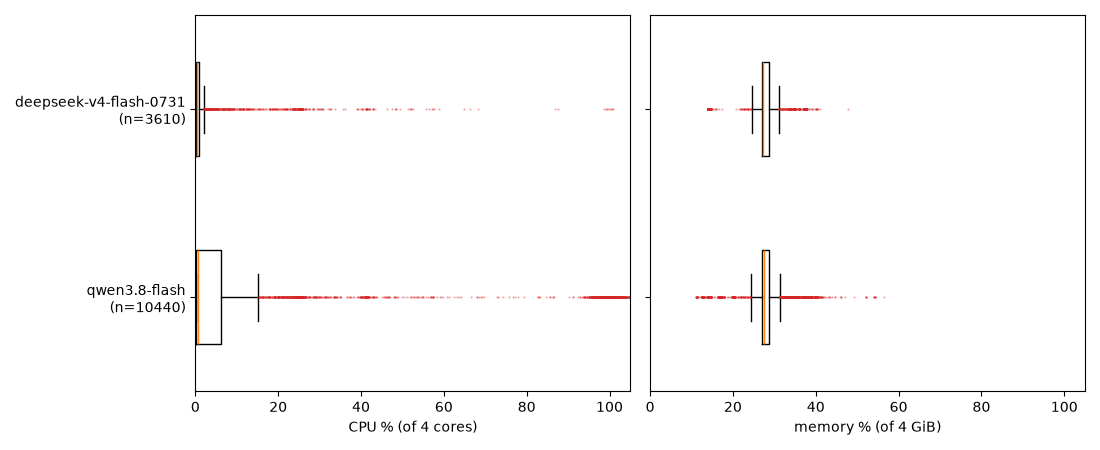
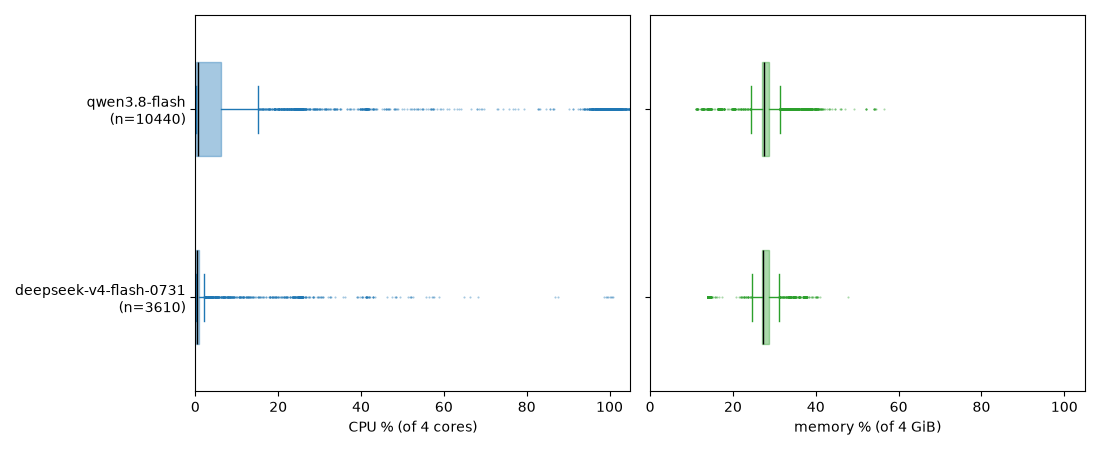
more charts

diff --git a/charts/tool_binding.py b/charts/tool_binding.py
@@ -1,0 +1,110 @@
+"""How much resource usage is bound to tool calls.
+
+Every 1 s sample of every task is classified inside vs outside a tool-call window
+(from trajectory.traj.json). Panels: violins of CPU % / memory % per model.
+
+Usage: uv run python charts/tool_binding.py
+"""
+from __future__ import annotations
+
+import argparse
+import json
+from pathlib import Path
+
+import matplotlib.pyplot as plt
+
+from taskplot import _epoch, load_samples, load_tool_windows
+
+DEFAULT_MODELS = ["qwen3.8-flash", "deepseek-v4-flash-0731"]
+
+
+def run_points(run_dir: Path):
+    """(cpu %, mem %, in_tool, interval_s, cpu_core_s) per 1 s sample of the agent phase."""
+    status = json.loads((run_dir / "status.json").read_text(encoding="utf-8"))
+    phase = status["phases"]["agent"]
+    t0, t1 = _epoch(phase["start"]), _epoch(phase["end"])
+    epochs, usage, mem, alloc_cpu, alloc_mem = load_samples(run_dir)
+    windows = load_tool_windows(run_dir)
+    pts = [(e, u, m) for e, u, m in zip(epochs, usage, mem) if t0 <= e <= t1]
+    out = []
+    for a, b in zip(pts, pts[1:]):
+        dt = b[0] - a[0]
+        if dt <= 0:
+            continue
+        mid = (a[0] + b[0]) / 2
+        inside = any(s <= mid <= e for s, e in windows)
+        cpu = 100.0 * (b[1] - a[1]) / 1e6 / dt / alloc_cpu
+        mem_pct = 100.0 * b[2] / (alloc_mem * 2**30)
+        out.append((cpu, mem_pct, inside, dt, (b[1] - a[1]) / 1e6))
+    return out
+
+
+def collect(model_dir: Path):
+    cpu_in, cpu_out, mem_in, mem_out = [], [], [], []
+    wall_total = wall_tool = cpu_s_total = cpu_s_tool = 0.0
+    for run_dir in sorted(p for p in model_dir.iterdir() if p.is_dir()):
+        if not (run_dir / "metrics.jsonl").exists():
+            continue
+        for cpu, mem_pct, inside, dt, cpu_s in run_points(run_dir):
+            (cpu_in if inside else cpu_out).append(cpu)
+            (mem_in if inside else mem_out).append(mem_pct)
+            wall_total += dt
+            cpu_s_total += cpu_s
+            if inside:
+                wall_tool += dt
+                cpu_s_tool += cpu_s
+    shares = (100 * wall_tool / wall_total, 100 * cpu_s_tool / cpu_s_total)
+    return (cpu_in, cpu_out, mem_in, mem_out), shares
+
+
+def main() -> int:
+    ap = argparse.ArgumentParser()
+    ap.add_argument("--models", nargs="+", default=DEFAULT_MODELS)
+    ap.add_argument("--runs", type=Path, default=Path("runs"))
+    ap.add_argument("-o", "--out", type=Path, default=Path("charts/tool-binding.png"))
+    ap.add_argument("--dpi", type=int, default=100)
+    args = ap.parse_args()
+
+    per_model = [collect(args.runs / m) for m in args.models]
+
+    fig, axes = plt.subplots(1, 2, figsize=(11, 5))
+    colors = ["tab:red", "tab:blue"]  # in-tool, outside
+
+    # col 1 + 2: violins
+    for col, (title, i_in, i_out) in enumerate(
+            [("CPU % (of 4 cores)", 0, 1), ("memory % (of 4 GiB)", 2, 3)]):
+        ax = axes[col]
+        data, positions, labels = [], [], []
+        for row, (model, (groups, _)) in enumerate(zip(args.models, per_model)):
+            base = row * 3
+            data += [groups[i_in], groups[i_out]]
+            positions += [base + 1, base + 2]
+            labels += ["tool", "idle"]
+        parts = ax.violinplot(data, positions=positions, widths=0.8,
+                              showmeans=True, showextrema=False)
+        for pc, k in zip(parts["bodies"], range(len(data))):
+            pc.set_facecolor(colors[k % 2])
+            pc.set_alpha(0.6)
+        parts["cmeans"].set_color("black")
+        ax.set_xticks(positions, labels, fontsize=8)
+        ax.set_title(title)
+        # model separators
+        ax.set_xlim(0.3, len(args.models) * 3 - 0.3)
+        for row in range(1, len(args.models)):
+            ax.axvline(row * 3, color="0.8", lw=1)
+        for row, model in enumerate(args.models):
+            ax.annotate(model, (row * 3 + 1.5, 0.98), xycoords=("data", "axes fraction"),
+                        ha="center", va="top", fontsize=10)
+        ax.set_ylim(bottom=0)
+
+    fig.tight_layout()
+    args.out.parent.mkdir(parents=True, exist_ok=True)
+    fig.savefig(args.out, dpi=args.dpi)
+    for m, (_, s) in zip(args.models, per_model):
+        print(f"{m}: wall {s[0]:.1f}%, cpu-seconds {s[1]:.1f}%")
+    print(f"wrote {args.out}")
+    return 0
+
+
+if __name__ == "__main__":
+    raise SystemExit(main())

diff --git a/charts/model_ccdf.py b/charts/model_ccdf.py
@@ -1,0 +1,65 @@
+"""Resource usage CCDF: y = % of samples needing at least x % of the allocation.
+
+Grid layout: rows = models (first on top), cols = CPU / memory, all tasks pooled
+like the boxplot. Long tail = curve staying high far right.
+
+Usage: uv run python charts/model_ccdf.py
+"""
+from __future__ import annotations
+
+import argparse
+from pathlib import Path
+
+import matplotlib.pyplot as plt
+import numpy as np
+
+from model_boxplot import DEFAULT_MODELS, model_samples
+
+
+def ccdf(values: list[float]) -> tuple[np.ndarray, np.ndarray]:
+    """(x = required % 0..100, y = % of samples at or above x)."""
+    xs = np.arange(0, 101)
+    arr = np.asarray(values)
+    ys = 100.0 * (arr.size - np.searchsorted(np.sort(arr), xs, side="left")) / arr.size
+    return xs, ys
+
+
+def main() -> int:
+    ap = argparse.ArgumentParser()
+    ap.add_argument("--models", nargs="+", default=DEFAULT_MODELS)
+    ap.add_argument("--runs", type=Path, default=Path("runs"))
+    ap.add_argument("-o", "--out", type=Path, default=Path("charts/usage-ccdf.png"))
+    ap.add_argument("--dpi", type=int, default=100)
+    args = ap.parse_args()
+
+    per_model = [model_samples(args.runs / model) for model in args.models]
+    metrics = [("CPU % (of 4 cores)", 0, "tab:blue"),
+               ("memory % (of 4 GiB)", 1, "tab:green")]
+
+    fig, axes = plt.subplots(len(args.models), len(metrics),
+                             figsize=(6 * len(metrics), 4 * len(args.models)),
+                             sharex=True, squeeze=False)
+    for row, (model, pm) in enumerate(zip(args.models, per_model)):
+        for col, (title, idx, color) in enumerate(metrics):
+            ax = axes[row][col]
+            xs, ys = ccdf(pm[idx])
+            ax.step(xs, ys, where="post", color=color, lw=1.5)
+            ax.set_xlim(0, 100)
+            ax.set_yscale("function", functions=(np.sqrt, np.square))
+            ax.set_ylim(0, 100)
+            ax.set_yticks([0, 1, 5, 10, 25, 50, 100])
+            ax.grid(alpha=0.3)
+            if col == 0:
+                ax.set_ylabel("% of samples ≥ x")
+            ax.set_title(model)
+            if row == len(args.models) - 1:
+                ax.set_xlabel(title)
+    fig.tight_layout()
+    args.out.parent.mkdir(parents=True, exist_ok=True)
+    fig.savefig(args.out, dpi=args.dpi)
+    print(f"wrote {args.out}")
+    return 0
+
+
+if __name__ == "__main__":
+    raise SystemExit(main())

diff --git a/charts/model_boxplot.py b/charts/model_boxplot.py
@@ -41,21 +41,25 @@ def main() -> int:
     ap.add_argument("--dpi", type=int, default=100)
     args = ap.parse_args()
 
-    metrics = [("CPU % (of 4 cores)", 0), ("memory % (of 4 GiB)", 1)]
+    metrics = [("CPU % (of 4 cores)", 0, "tab:blue"),
+               ("memory % (of 4 GiB)", 1, "tab:green")]
     per_model = [model_samples(args.runs / model) for model in args.models]
 
     fig, axes = plt.subplots(1, len(metrics), figsize=(5.5 * len(metrics), 4.5),
                              sharey=True)
-    for ax, (title, idx) in zip(axes, metrics):
+    for ax, (title, idx, color) in zip(axes, metrics):
         data = [pm[idx] for pm in per_model]
-        ax.boxplot(data, orientation="horizontal", widths=0.5,
-                   flierprops=dict(marker=".", markersize=3, markerfacecolor="tab:red",
+        ax.boxplot(data, orientation="horizontal", widths=0.5, patch_artist=True,
+                   boxprops=dict(color=color, facecolor=color, alpha=0.4),
+                   whiskerprops=dict(color=color), capprops=dict(color=color),
+                   medianprops=dict(color="black"),
+                   flierprops=dict(marker=".", markersize=3, markerfacecolor=color,
                                    markeredgecolor="none", alpha=0.4))
         ax.set_xlabel(title)
         ax.set_xlim(0, 105)
         ax.set_yticks(range(1, len(args.models) + 1),
                       [f"{m}\n(n={len(pm[idx])})" for m, pm in zip(args.models, per_model)])
-        ax.invert_yaxis()  # first model on top
+    axes[0].invert_yaxis()  # first model on top; once only, sharey syncs all
     fig.tight_layout()
     args.out.parent.mkdir(parents=True, exist_ok=True)
     fig.savefig(args.out, dpi=args.dpi)
